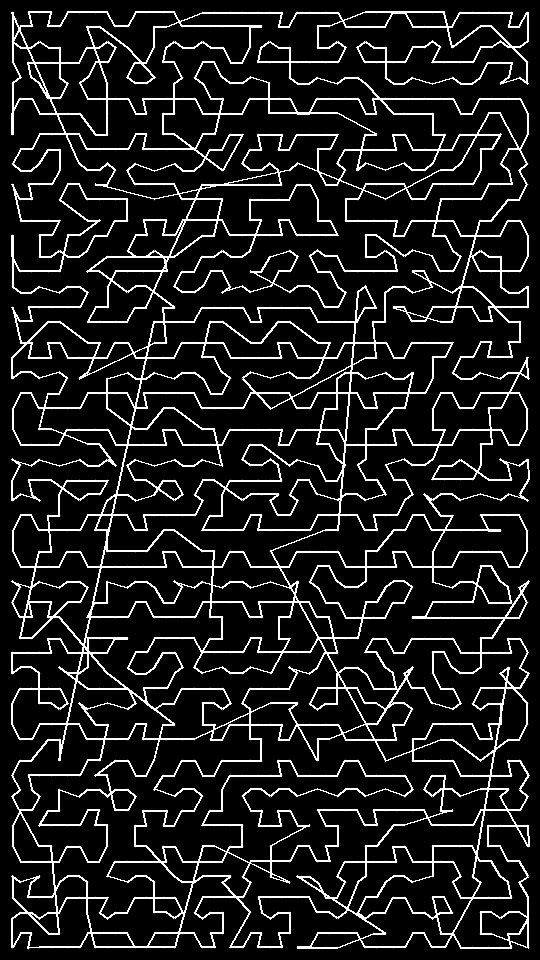
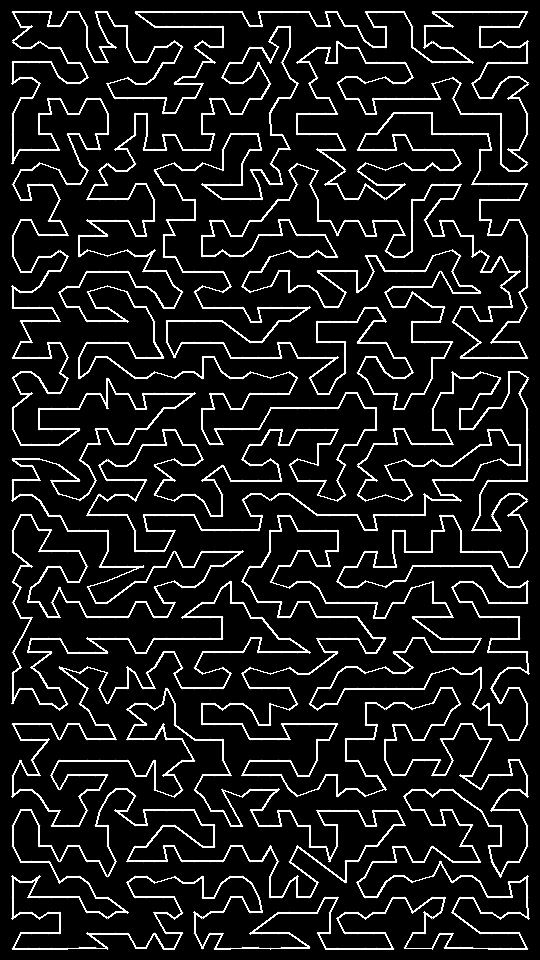
Improved algo to avoid overlaps

diff --git a/src/screensaver.py b/src/screensaver.py
@@ -70,9 +70,10 @@ def generate_ab_patch(limit: int, window: float, rng: random.Random) -> List[Tup
         raise ValueError("No tiling vertices were generated; adjust --limit/--window")
 
     # Apply a random dihedral-8 symmetry to keep runs varied.
-    rotation = rng.randrange(8)
-    sin_theta = math.sin(rotation * math.pi / 4)
-    cos_theta = math.cos(rotation * math.pi / 4)
+    # Restrict the rotation to multiples of 90° so the patch stays axis aligned.
+    theta = rng.randrange(4) * math.pi / 2
+    sin_theta = math.sin(theta)
+    cos_theta = math.cos(theta)
     flipped = rng.choice([False, True])
 
     transformed: List[Tuple[float, float]] = []
@@ -134,17 +135,18 @@ def two_opt_improvement(
     n = len(cycle)
     for _ in range(max_rounds):
         improved = False
-        indices = list(range(n - 2))
+        indices = list(range(n - 1))
         rng.shuffle(indices)
         for i in indices:
             a = cycle[i]
             b = cycle[i + 1]
             ax, ay = points[a]
             bx, by = points[b]
-            for j in range(i + 2, n if i > 0 else n - 1):
+            upper = n if i > 0 else n - 1
+            for j in range(i + 2, upper):
                 c = cycle[j]
                 d = cycle[(j + 1) % n]
-                if a == d:
+                if a == d or b == c:
                     continue
                 cx, cy = points[c]
                 dx, dy = points[d]
@@ -153,9 +155,6 @@ def two_opt_improvement(
                 if swapped_length + 1e-9 < current_length:
                     cycle[i + 1 : j + 1] = reversed(cycle[i + 1 : j + 1])
                     improved = True
-                    break
-            if improved:
-                break
         if not improved:
             break
 
@@ -229,7 +228,7 @@ def parse_args(argv: Sequence[str] | None = None) -> argparse.Namespace:
     parser.add_argument(
         "--two-opt-rounds",
         type=int,
-        default=4,
+        default=48,
         help="Maximum number of 2-opt refinement sweeps applied to the tour",
     )
     parser.add_argument(
